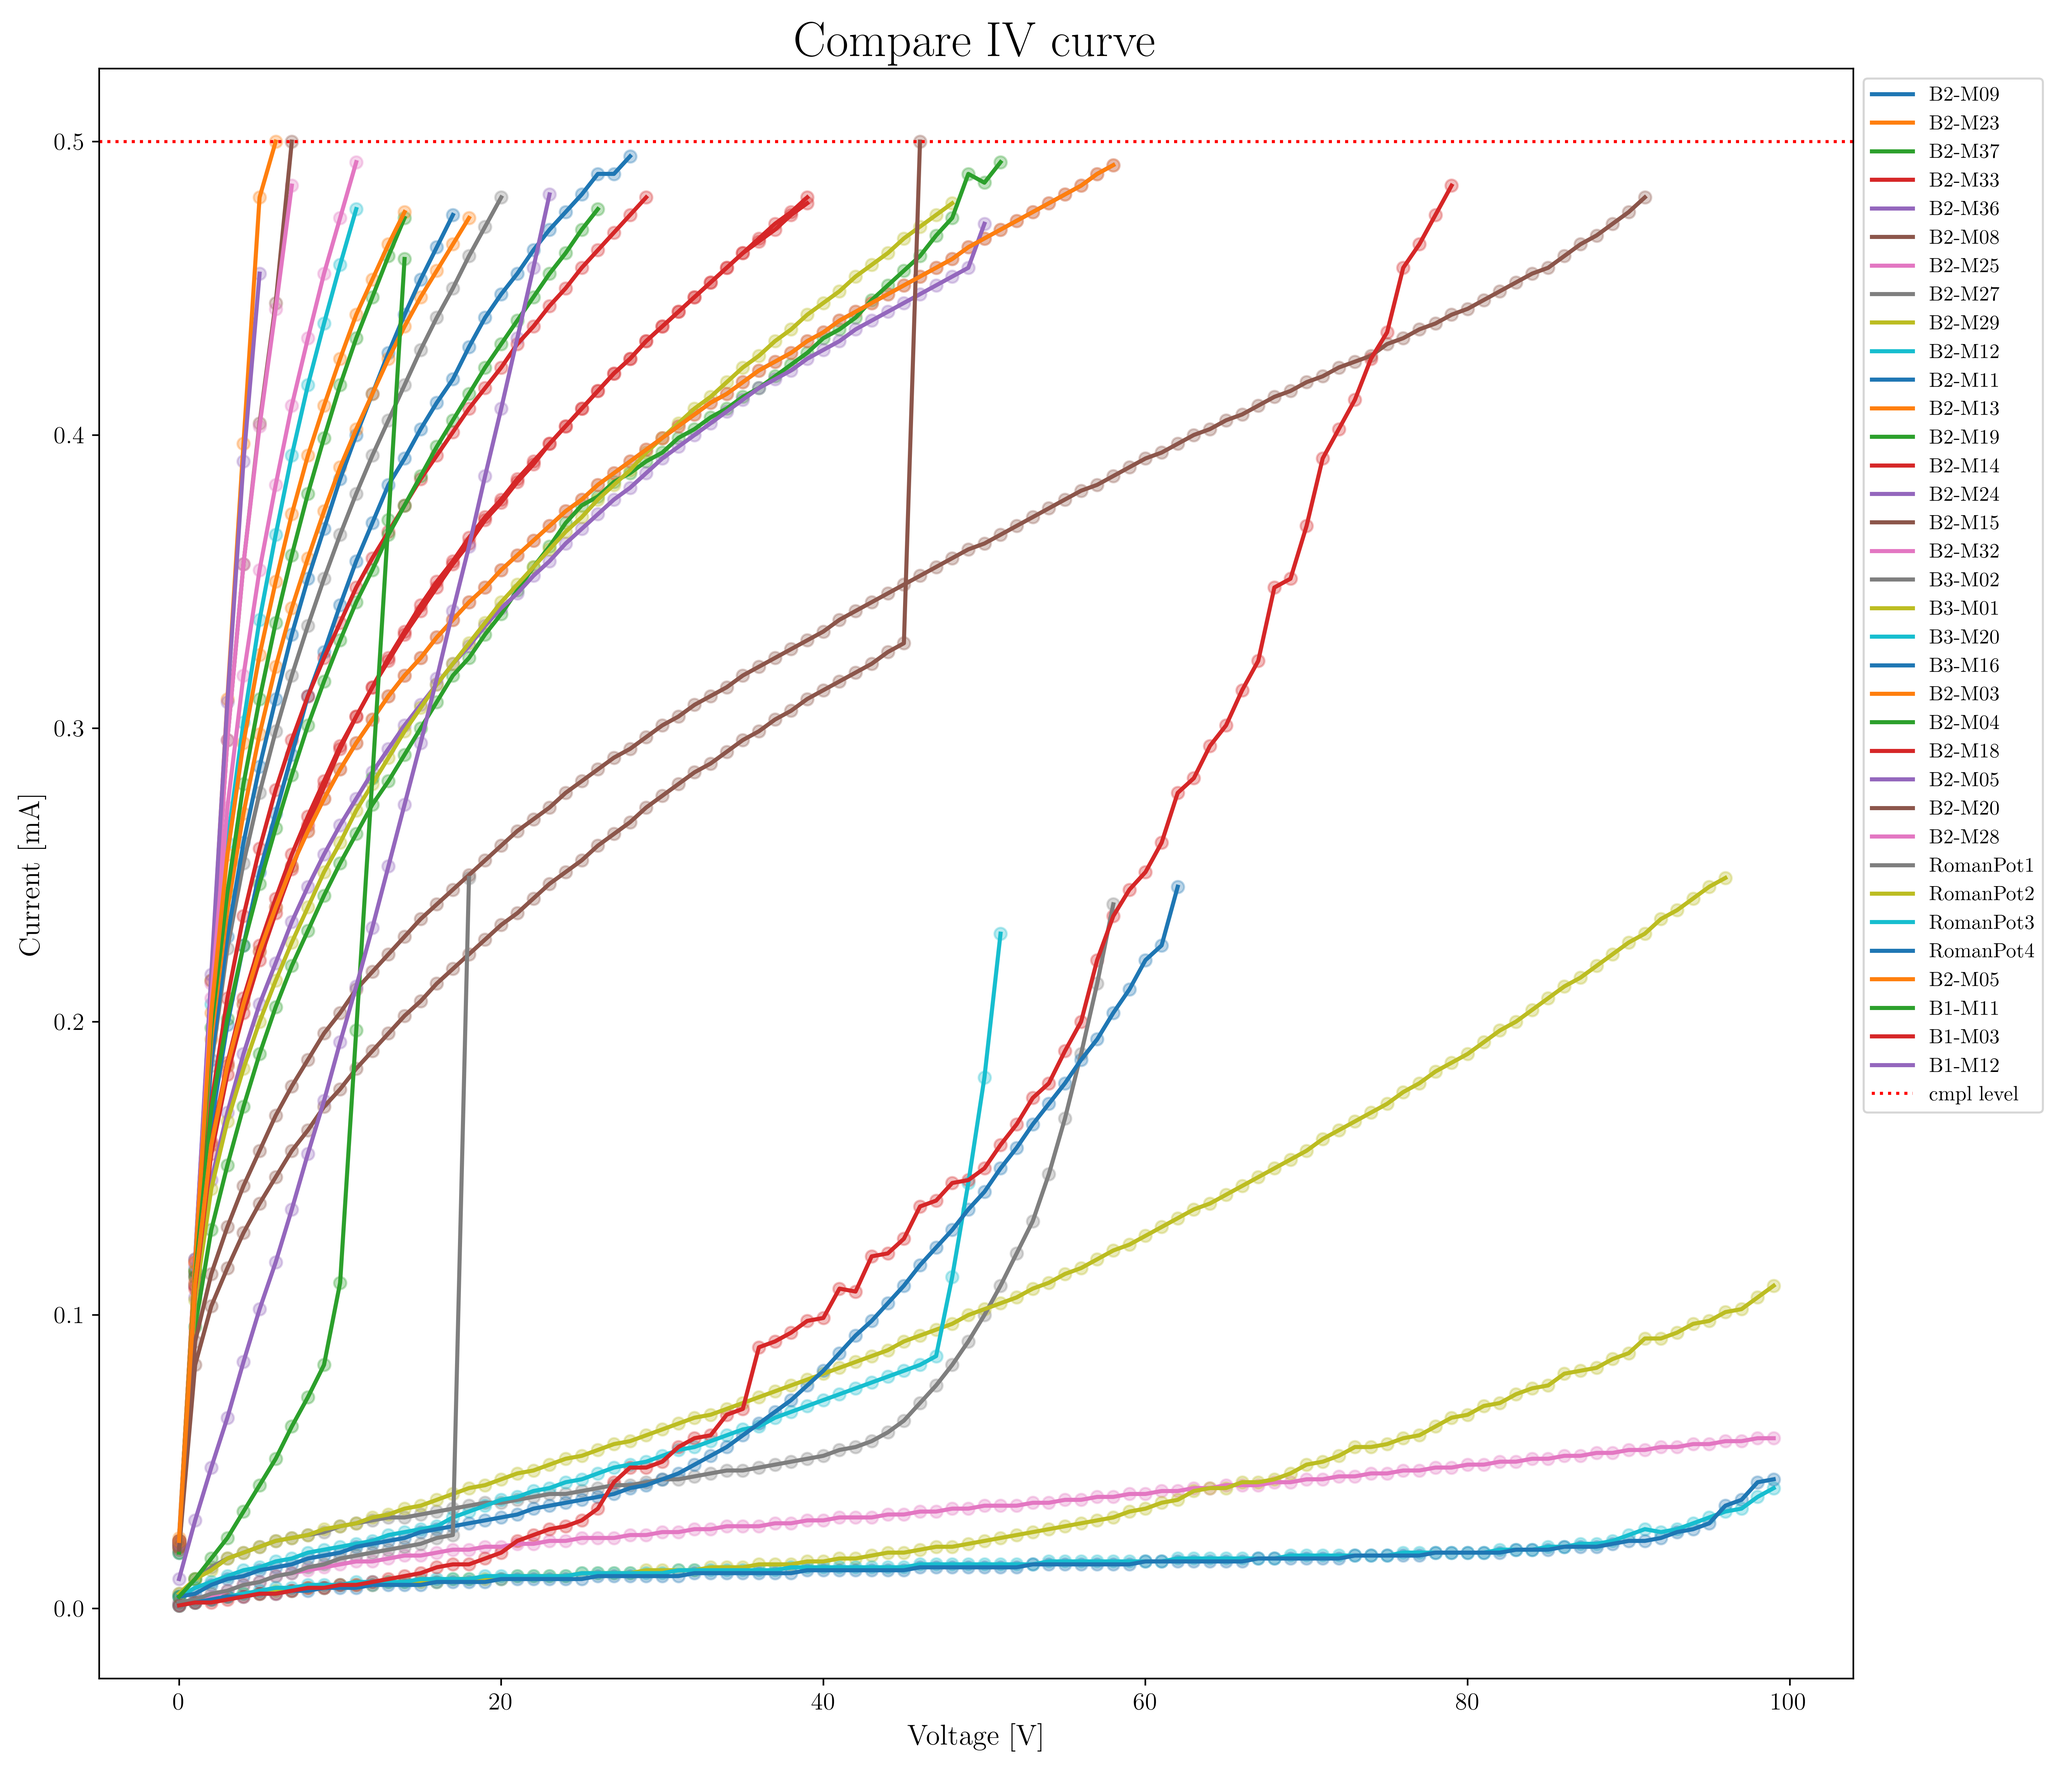
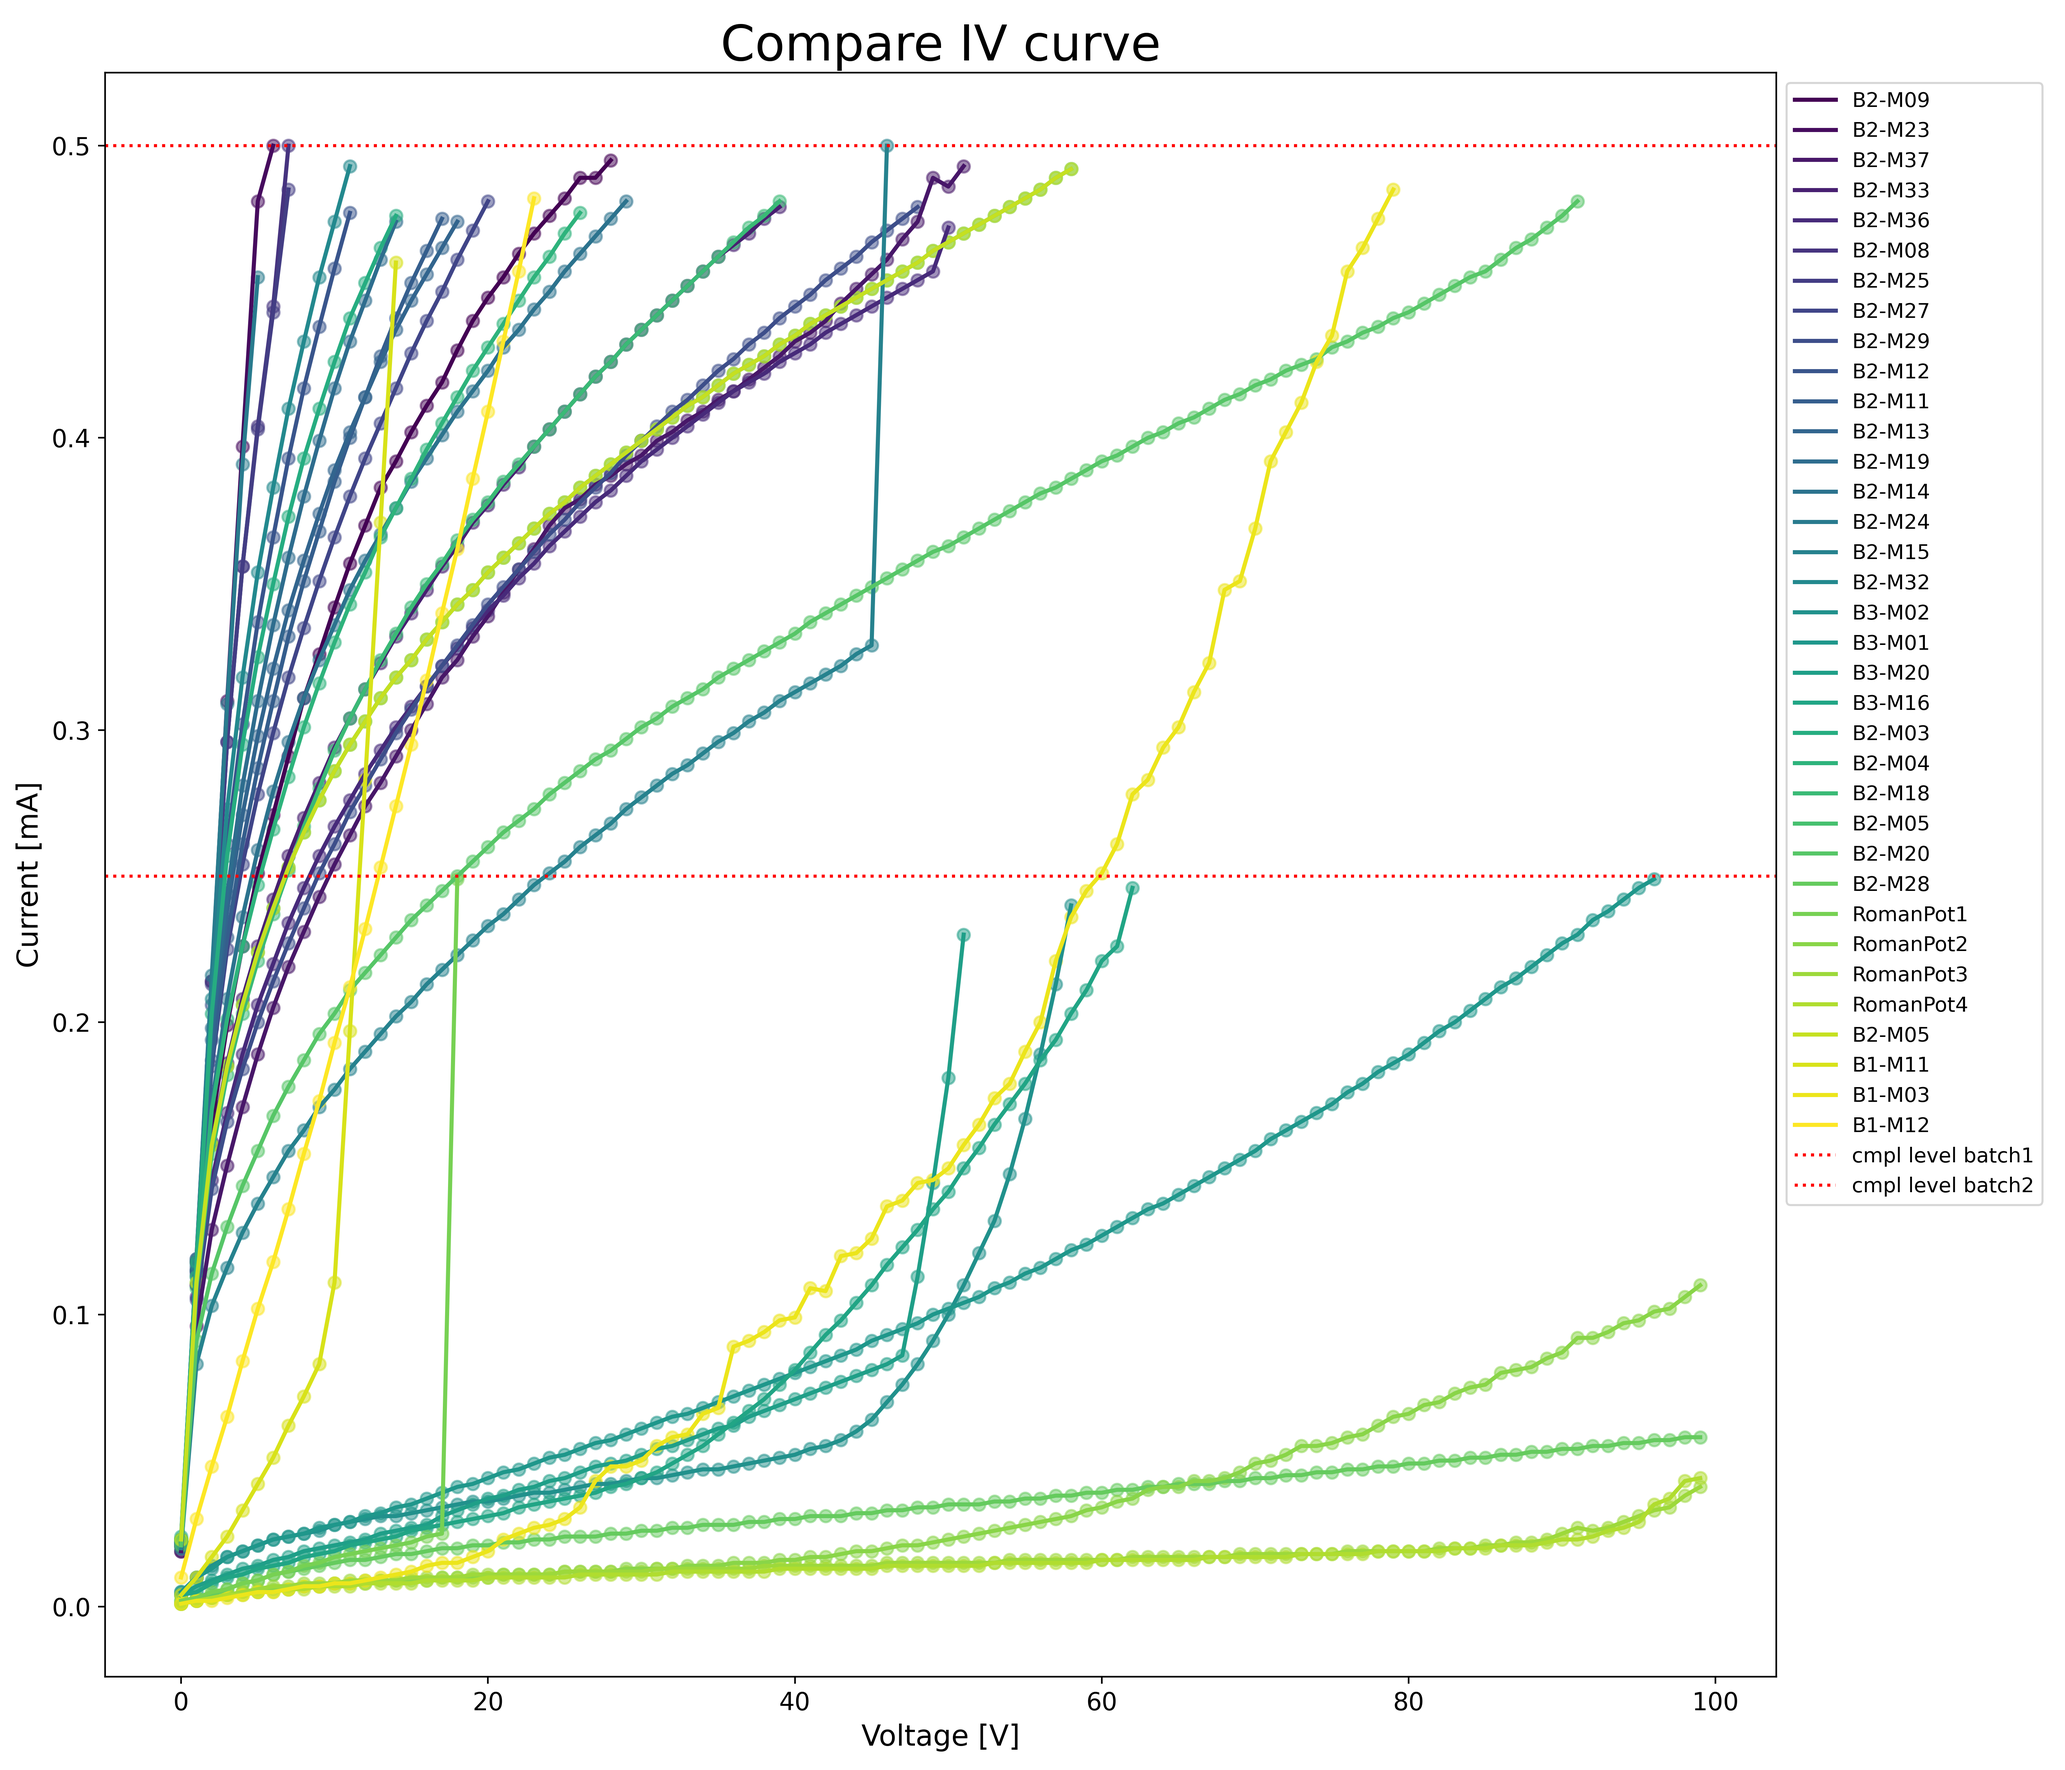
few bugs fixed

diff --git a/sitgui/anlysis_scripts/group_iv.py b/sitgui/anlysis_scripts/group_iv.py
@@ -13,19 +13,17 @@ with open('chips.txt', 'r') as f:
 # Create a larger figure
 fig, ax = plt.subplots(figsize=(14, 12))
 
-# Cycle through colors for each plot
-color_cycle = plt.rcParams['axes.prop_cycle'].by_key()['color']
+# Generate a unique color for each chip
+num_colors = len(chip_names)
+colors = plt.cm.viridis(np.linspace(0, 1, num_colors))
 
-# Loop over chip names and plot data
 for i, chip in enumerate(chip_names):
-    # Read data for chip
     data = pd.read_csv(f'../SiT_testing//{chip}/iv_data.txt', sep='\s+', header=None, names=['Voltage', 'Current'])
-
-    # Plot data with thicker lines
-    ax.plot(data['Voltage'], data['Current'], label=chip, color=color_cycle[i % len(color_cycle)], linewidth=2.0)
+    ax.plot(data['Voltage'], data['Current'], label=chip, color=colors[i], linewidth=2.0)
+    ax.scatter(data['Voltage'], data['Current'], color=colors[i], alpha=0.3)
 
     # Add scatter plot
-    ax.scatter(data['Voltage'], data['Current'], color=color_cycle[i % len(color_cycle)], alpha=0.3)
+    ax.scatter(data['Voltage'], data['Current'],color=colors[i], alpha=0.3)
 
 # Add complementary level line
 ax.axhline(y=0.5, color='r', linestyle=':', label='cmpl level batch1')

diff --git a/sitgui/anlysis_scripts/group_bad_pixles.py b/sitgui/anlysis_scripts/group_bad_pixles.py
@@ -39,7 +39,7 @@ ax.set_ylabel('Number of pixels', fontsize=14)
 ax.set_title('Badpixels for each module', fontsize=16)
 
 # Set Y-axis limit
-ax.set_ylim([0, 80])  # adjust as necessary
+ax.set_ylim([0, 80])
 
 # Add xticks - on the 'index' position, we place the corresponding chip name
 ax.set_xticks(index + bar_width / 2)
